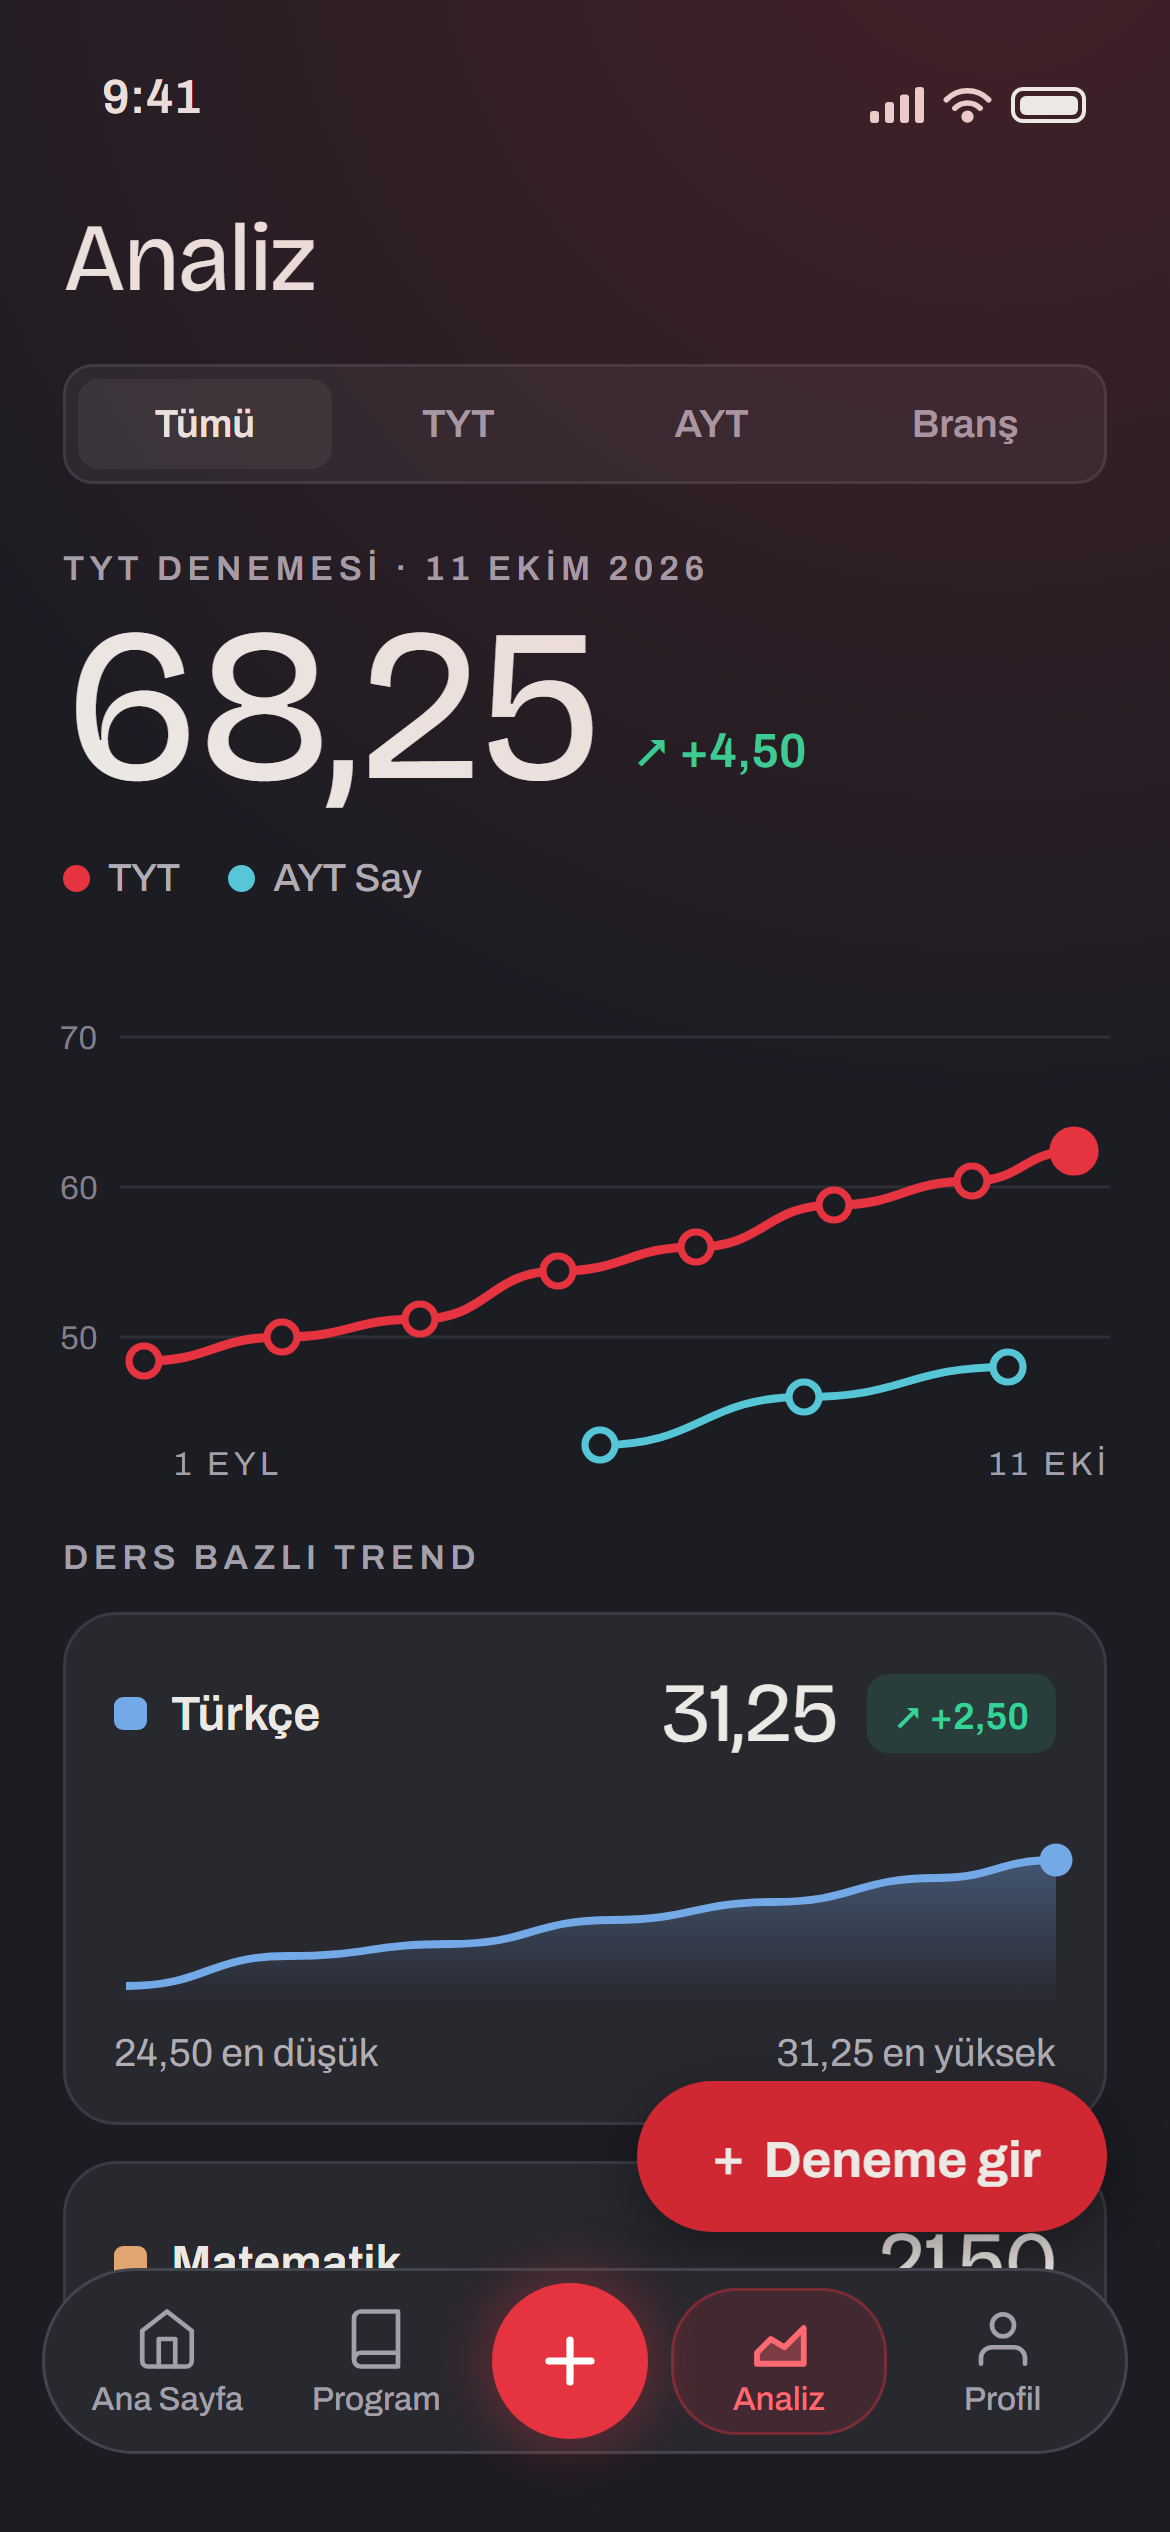
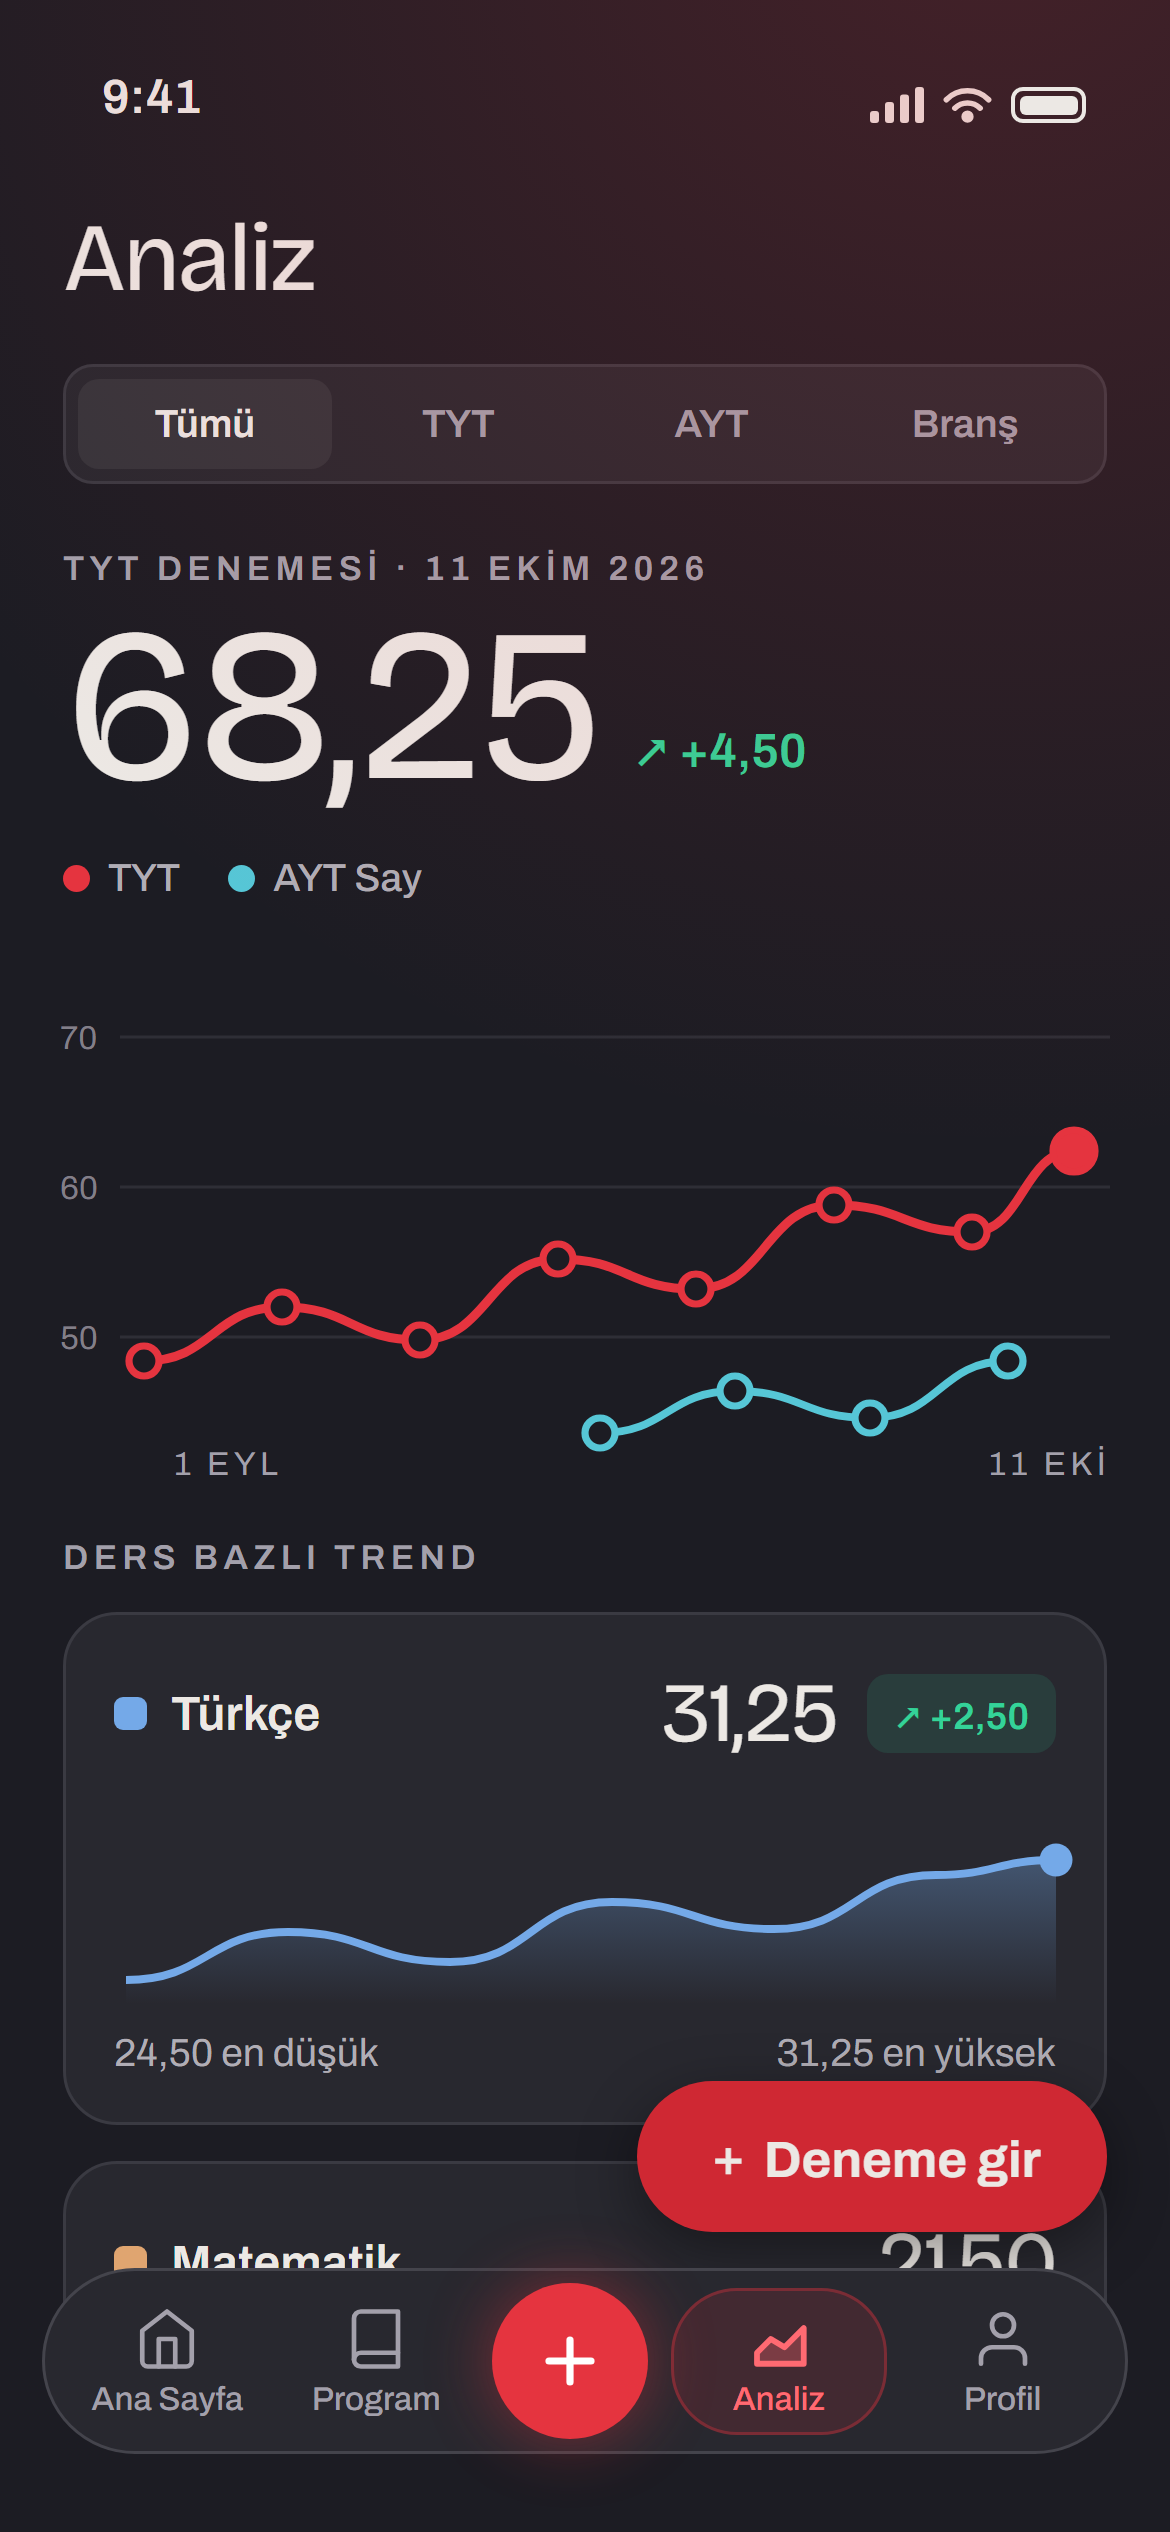
style(magaza): Analiz ve Matematik grafikleri dalgali (inisli cikisli yukselis); kareler yeniden uretildi

diff --git a/store/visuals/frames/screens.html b/store/visuals/frames/screens.html
@@ -123,8 +123,8 @@ S.rota = () => {
 };
 
 S.analiz = () => {
-  const tyt=[[30,148],[76,140],[122,134],[168,118],[214,110],[260,96],[306,88],[340,78]];
-  const tur=[[24,66],[78,56],[132,52],[186,44],[240,38],[294,30],[334,24]];
+  const tyt=[[30,148],[76,130],[122,141],[168,114],[214,124],[260,96],[306,105],[340,78]];
+  const tur=[[24,64],[78,48],[132,58],[186,38],[240,47],[294,29],[334,24]];
   return `<div class="scr"><div class="glow"></div>${STATUS}
   <div class="pad bric" style="font-size:32px;margin-top:20px">Analiz</div>
   <div class="pad" style="margin-top:16px"><div class="seg"><div class="on">Tümü</div><div>TYT</div><div>AYT</div><div>Branş</div></div></div>
@@ -134,8 +134,8 @@ S.analiz = () => {
   ${[['70',44],['60',94],['50',144]].map(([t,y])=>`<text x="20" y="${y}" fill="#827F88" font-size="11" font-family="Archivo">${t}</text>`).join('')}
   <path d="${smooth(tyt.map(([x,y])=>[x+18,y]))}" fill="none" stroke="#E5343F" stroke-width="3" stroke-linecap="round"/>
   ${tyt.map(([x,y],i)=>`<circle cx="${x+18}" cy="${y}" r="${i===tyt.length-1?7:5}" fill="${i===tyt.length-1?'#E5343F':'#1C1C23'}" stroke="#E5343F" stroke-width="2.4"/>`).join('')}
-  <path d="${smooth([[200,176],[268,160],[336,150]])}" fill="none" stroke="#56C6D6" stroke-width="2.6" stroke-linecap="round"/>
-  ${[[200,176],[268,160],[336,150]].map(([x,y])=>`<circle cx="${x}" cy="${y}" r="5" fill="#1C1C23" stroke="#56C6D6" stroke-width="2.4"/>`).join('')}
+  <path d="${smooth([[200,172],[245,158],[290,167],[336,148]])}" fill="none" stroke="#56C6D6" stroke-width="2.6" stroke-linecap="round"/>
+  ${[[200,172],[245,158],[290,167],[336,148]].map(([x,y])=>`<circle cx="${x}" cy="${y}" r="5" fill="#1C1C23" stroke="#56C6D6" stroke-width="2.4"/>`).join('')}
   <text x="58" y="186" fill="#A3A0AB" font-size="11" font-family="Archivo" letter-spacing="1.5">1 EYL</text><text x="370" y="186" fill="#A3A0AB" font-size="11" font-family="Archivo" text-anchor="end" letter-spacing="1.5">11 EKİ</text></svg>
   <div class="pad label" style="margin-top:14px">DERS BAZLI TREND</div>
   <div class="pad" style="margin-top:12px"><div style="background:var(--surface);border:1px solid var(--line);border-radius:18px;padding:16px">
@@ -148,7 +148,7 @@ S.analiz = () => {
 };
 
 S.mat = () => {
-  const p=[[40,180],[100,166],[160,150],[220,128],[280,104],[346,84]];
+  const p=[[40,180],[100,156],[160,167],[220,126],[280,138],[346,84]];
   return `<div class="scr"><div class="glow"></div>${STATUS}${BACK('Matematik','#E0A570')}
   <div class="pad" style="margin-top:26px"><div class="label">SON 6 DENEME</div><div class="row" style="gap:12px;align-items:flex-end;margin-top:4px"><span class="bric" style="font-size:64px;line-height:1">24,75</span><span style="color:var(--up);font:600 17px Archivo;margin-bottom:10px">+6,25 net</span></div>
   <div style="font:400 15px/1.55 Archivo;color:var(--text2);margin-top:12px">Son denemelerde yükselişte. Problemlerde doğruluğun %58'den %76'ya çıktı.</div></div>
